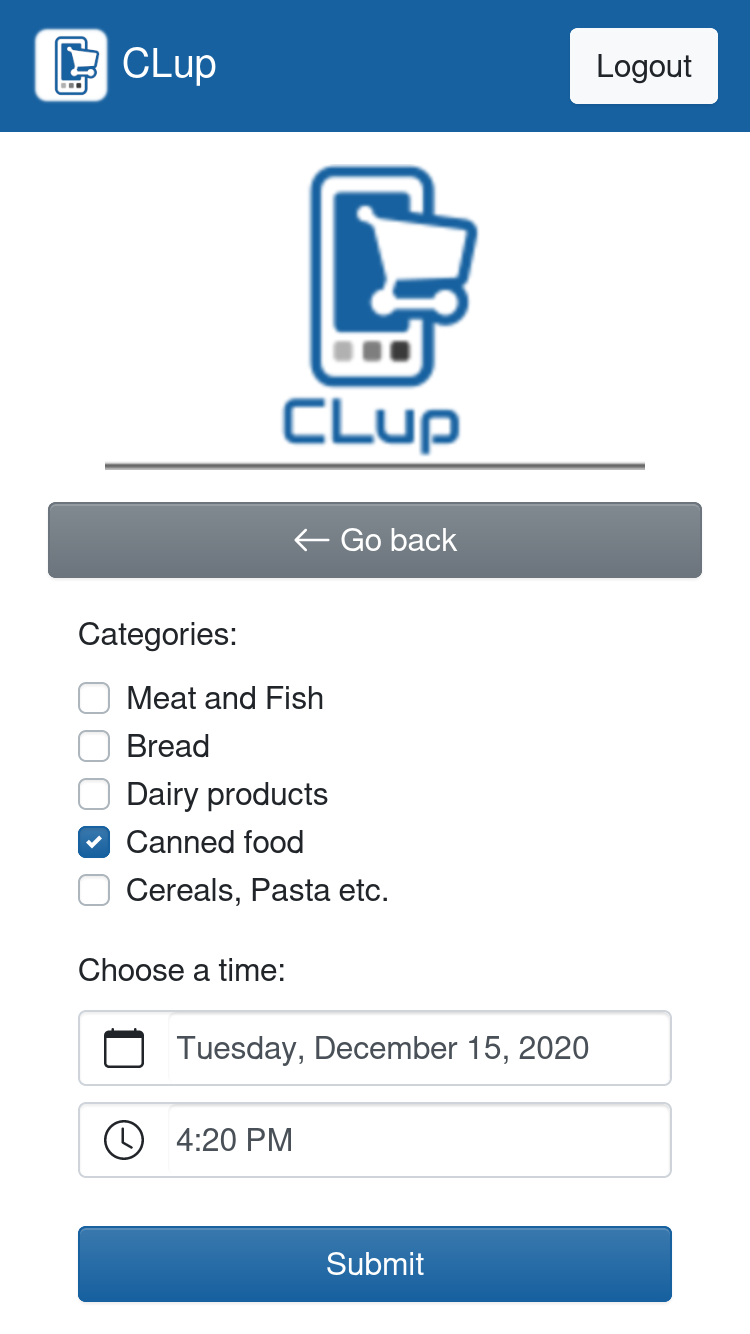
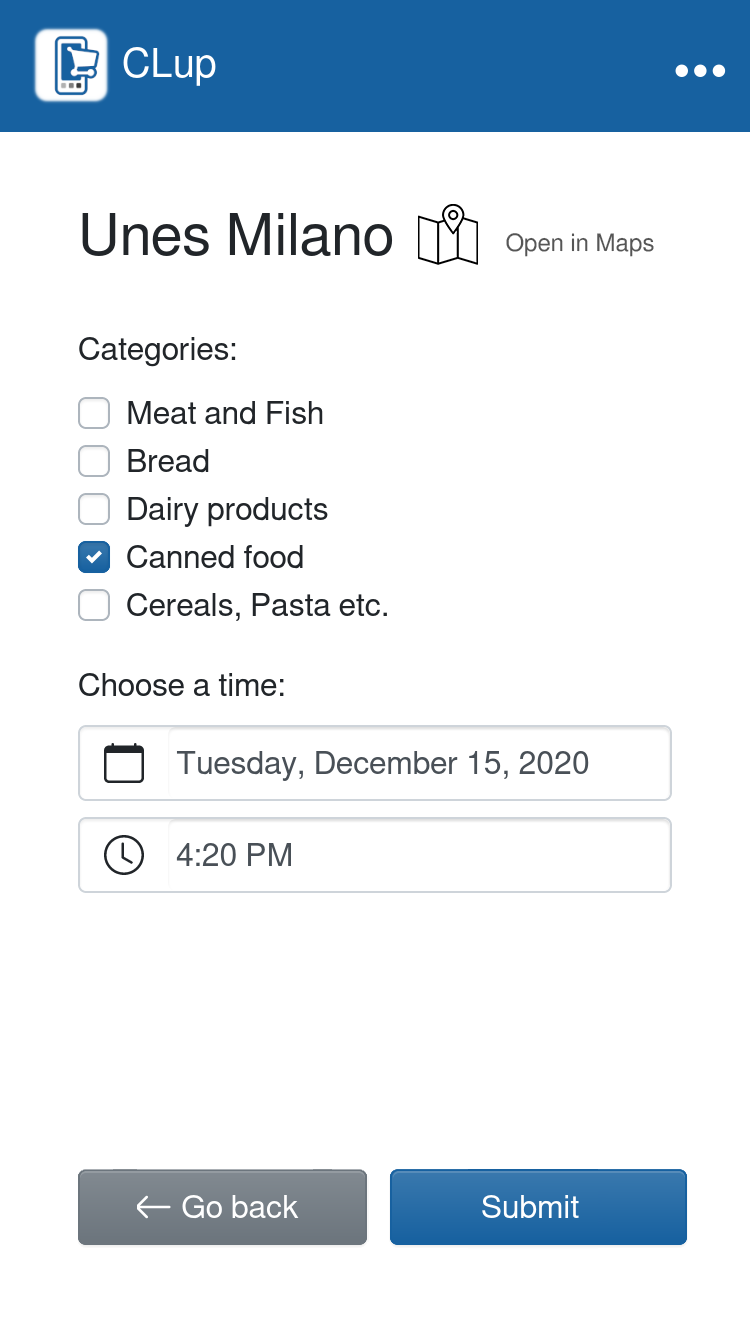
Update mockups

diff --git a/RASD/Files/requirements.tex b/RASD/Files/requirements.tex
@@ -21,14 +21,16 @@ When first opening the application, Customers are presented with a registration 
 \label{page:home}
 After login/registration, the app displays a Shop search bar that dynamically updates its results while the Customers are typing. After selecting a Shop from the results, the two buttons "Get a Ticket" and "Make a Booking" are enabled, which are linked to the Ticket form and Booking form, respectively.
 \begin{figure}[H]
-    \centering
-    \includegraphics[scale=0.25]{Images/home-mockup.png}
-    \caption{Shop selection interface}
-\end{figure}
-\begin{figure}[H]
-    \centering
-    \includegraphics[scale=1]{Images/search-mockup.png}
-    \caption{Dynamic search in the shop selection interface}
+    \begin{subfigure}{0.5\textwidth}
+        \centering
+        \includegraphics[width=0.75\textwidth]{Images/home-mockup.png}
+        \caption{Shop selection interface}
+    \end{subfigure}%
+    \begin{subfigure}{0.5\textwidth}
+        \centering
+        \includegraphics[width=0.75\textwidth]{Images/search-mockup.png}
+        \caption{Dynamic search in the shop selection interface}
+    \end{subfigure}
 \end{figure}
 
 \textbf{Ticket form}\\
@@ -54,10 +56,18 @@ This page is identical to the previous, except for the added time selection. A t
 After generating a Ticket or a Booking, and until its expiration, the app will display the token as a fullscreen QR code right after opening, or after Login (if the login timeout has passed).
 This makes it very quick to have the Token scanned by the clerks outside of a shop.
 \begin{figure}[H]
-    \centering
-    \includegraphics[scale=0.25]{Images/token-mockup.png}
-    \caption{Token display interface}
+    \begin{subfigure}{0.5\textwidth}
+        \centering
+        \includegraphics[width=0.75\textwidth]{Images/queue-mockup.png}
+        \caption{My Tokens interface}
+    \end{subfigure}%
+    \begin{subfigure}{0.5\textwidth}
+        \centering
+        \includegraphics[width=0.75\textwidth]{Images/token-mockup.png}
+        \caption{Show token interface}
+    \end{subfigure}
 \end{figure}
+
 
 \subsubsection{Hardware interfaces}
 The \emph{CLup} client shall be available for devices capable of rendering a web page with javascript and internet access, this includes smartphones, tablets and personal computers.

diff --git a/RASD/commandsFile.tex b/RASD/commandsFile.tex
@@ -57,6 +57,7 @@
 \usepackage{pdflscape}
 \usepackage{rotating}
 \usepackage{caption}
+\usepackage{subcaption}
 
 %svg support
 %\usepackage{svg}
